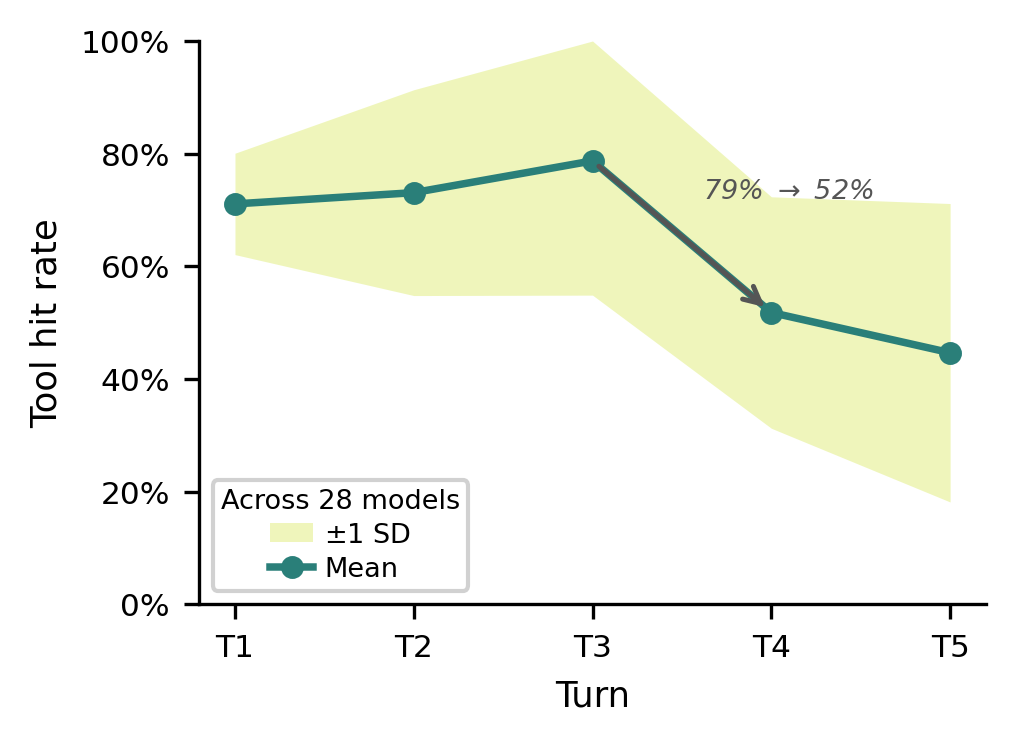
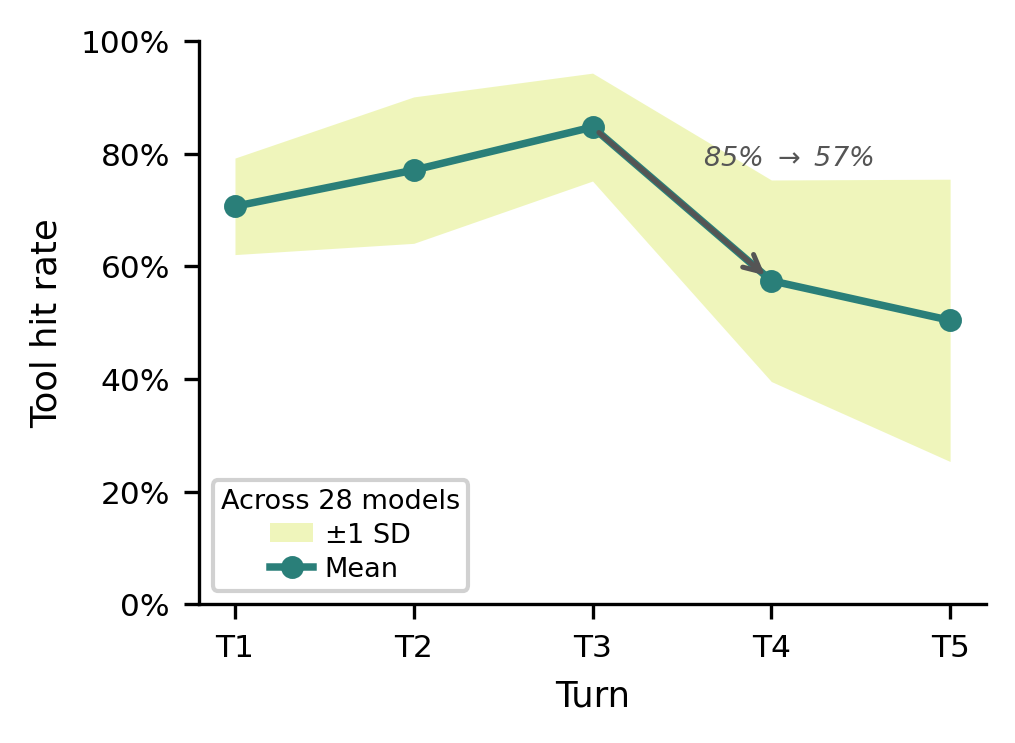
fig(turnwise): regenerate fig:multiturn from corrected results_mt_oracle (28 models)
Point fig_turnwise_line at results_mt_oracle so the turn-wise curve uses the Mistral-fixed
multi-turn runs; the STR-stage drop is now ~27pp, consistent with the RQ3 text.

Changed region(s): [[0.2443, 0.1548, 0.9468, 0.681], [0.2749, 0.0619, 0.7025, 0.1857], [0.2443, 0.1857, 0.2749, 0.2167]]

diff --git a/_experiments/scripts/generate_new_figures.py b/_experiments/scripts/generate_new_figures.py
@@ -169,7 +169,7 @@ def fig_turnwise_line():
     (n=1 scenario) is excluded.
     """
     from collections import defaultdict
-    MT = _SB / "_experiments" / "results_mt" / "eval"
+    MT = _SB / "_experiments" / "results_mt_oracle" / "eval"
     MAX_TURN = 5
     EXCLUDE = {  # 28-model cohort: drop 8 non-cohort variants + redundant Kanana-2-Instruct-2601
         "Qwen_Qwen3-30B-A3B-Instruct-2507", "Qwen_Qwen3-4B-Instruct-2507",
